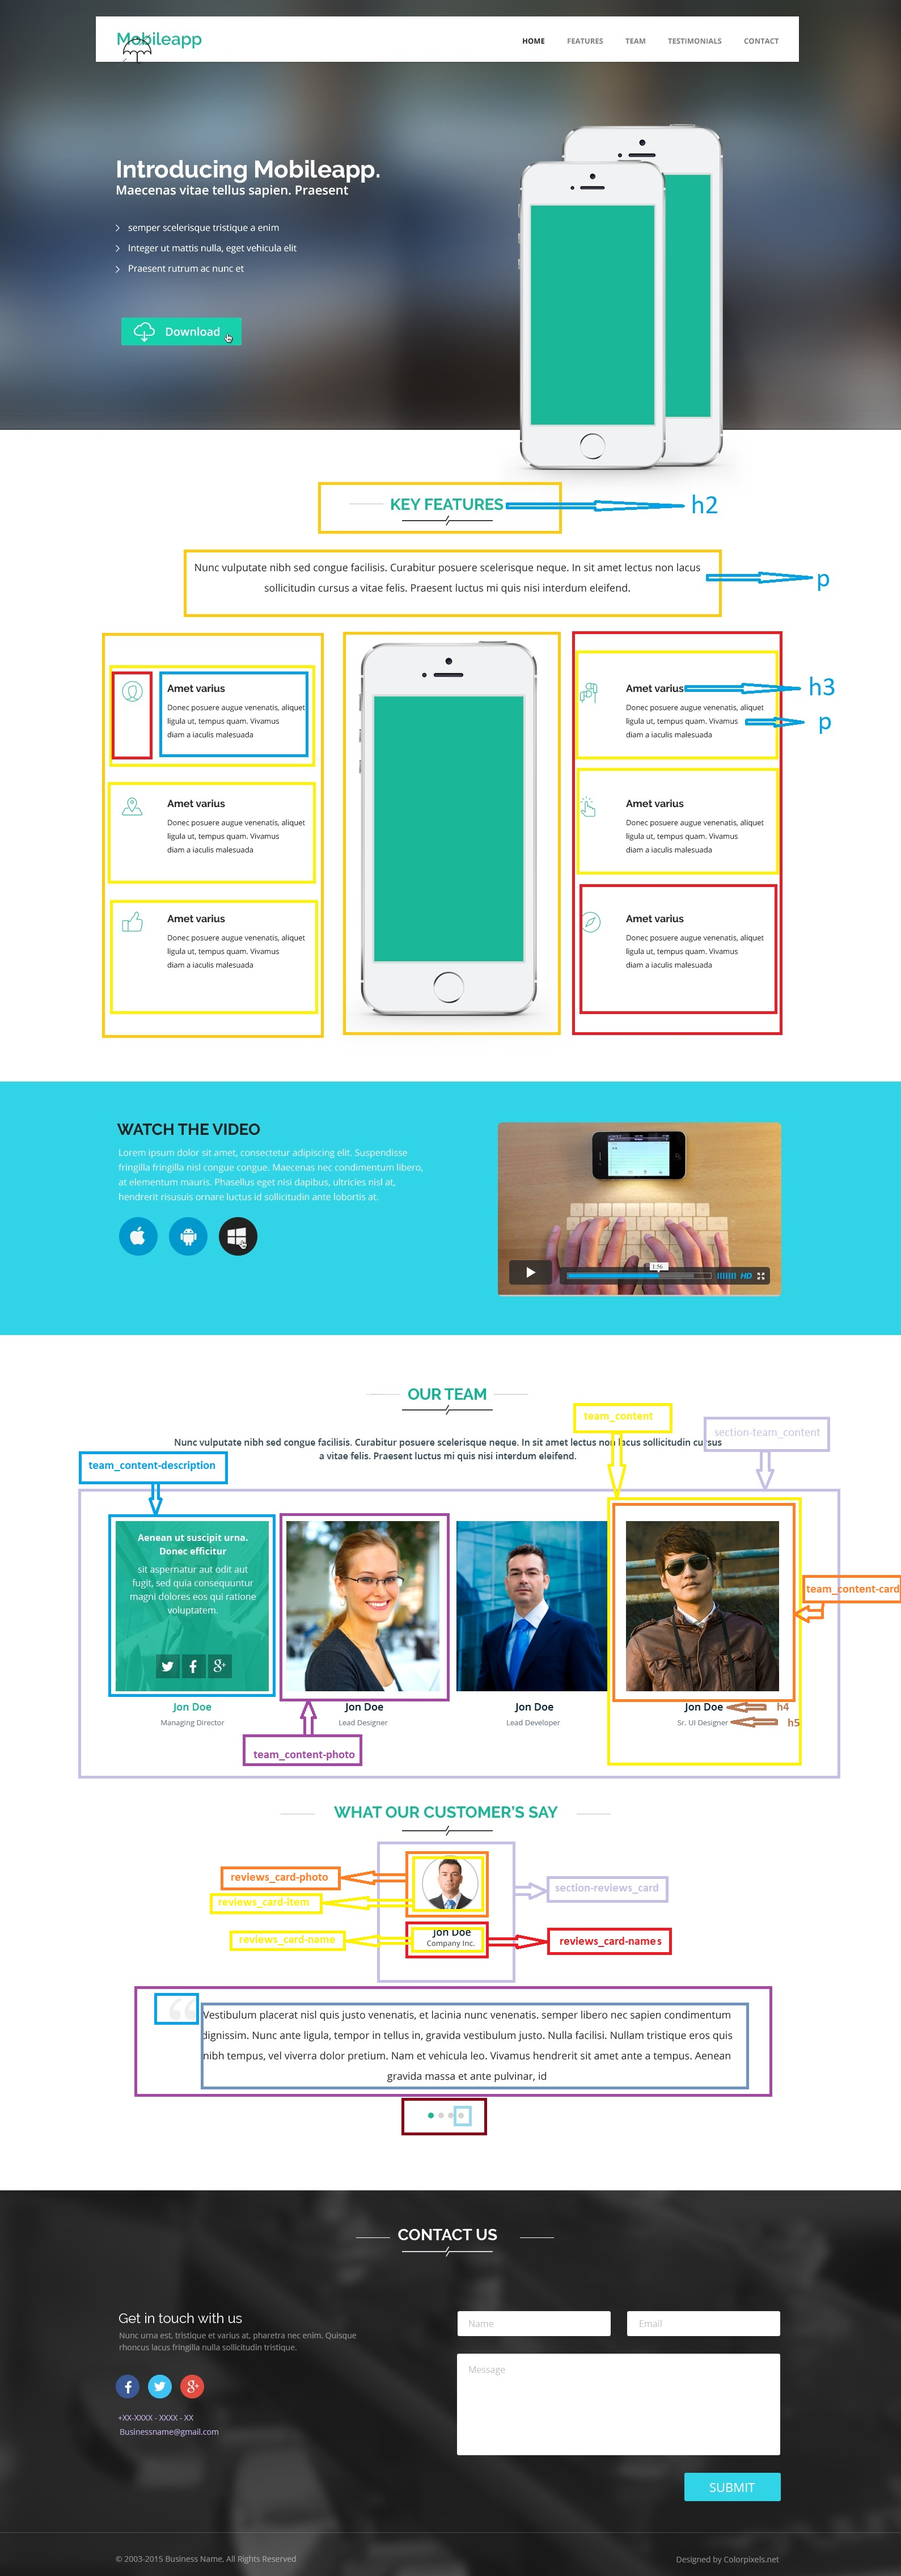
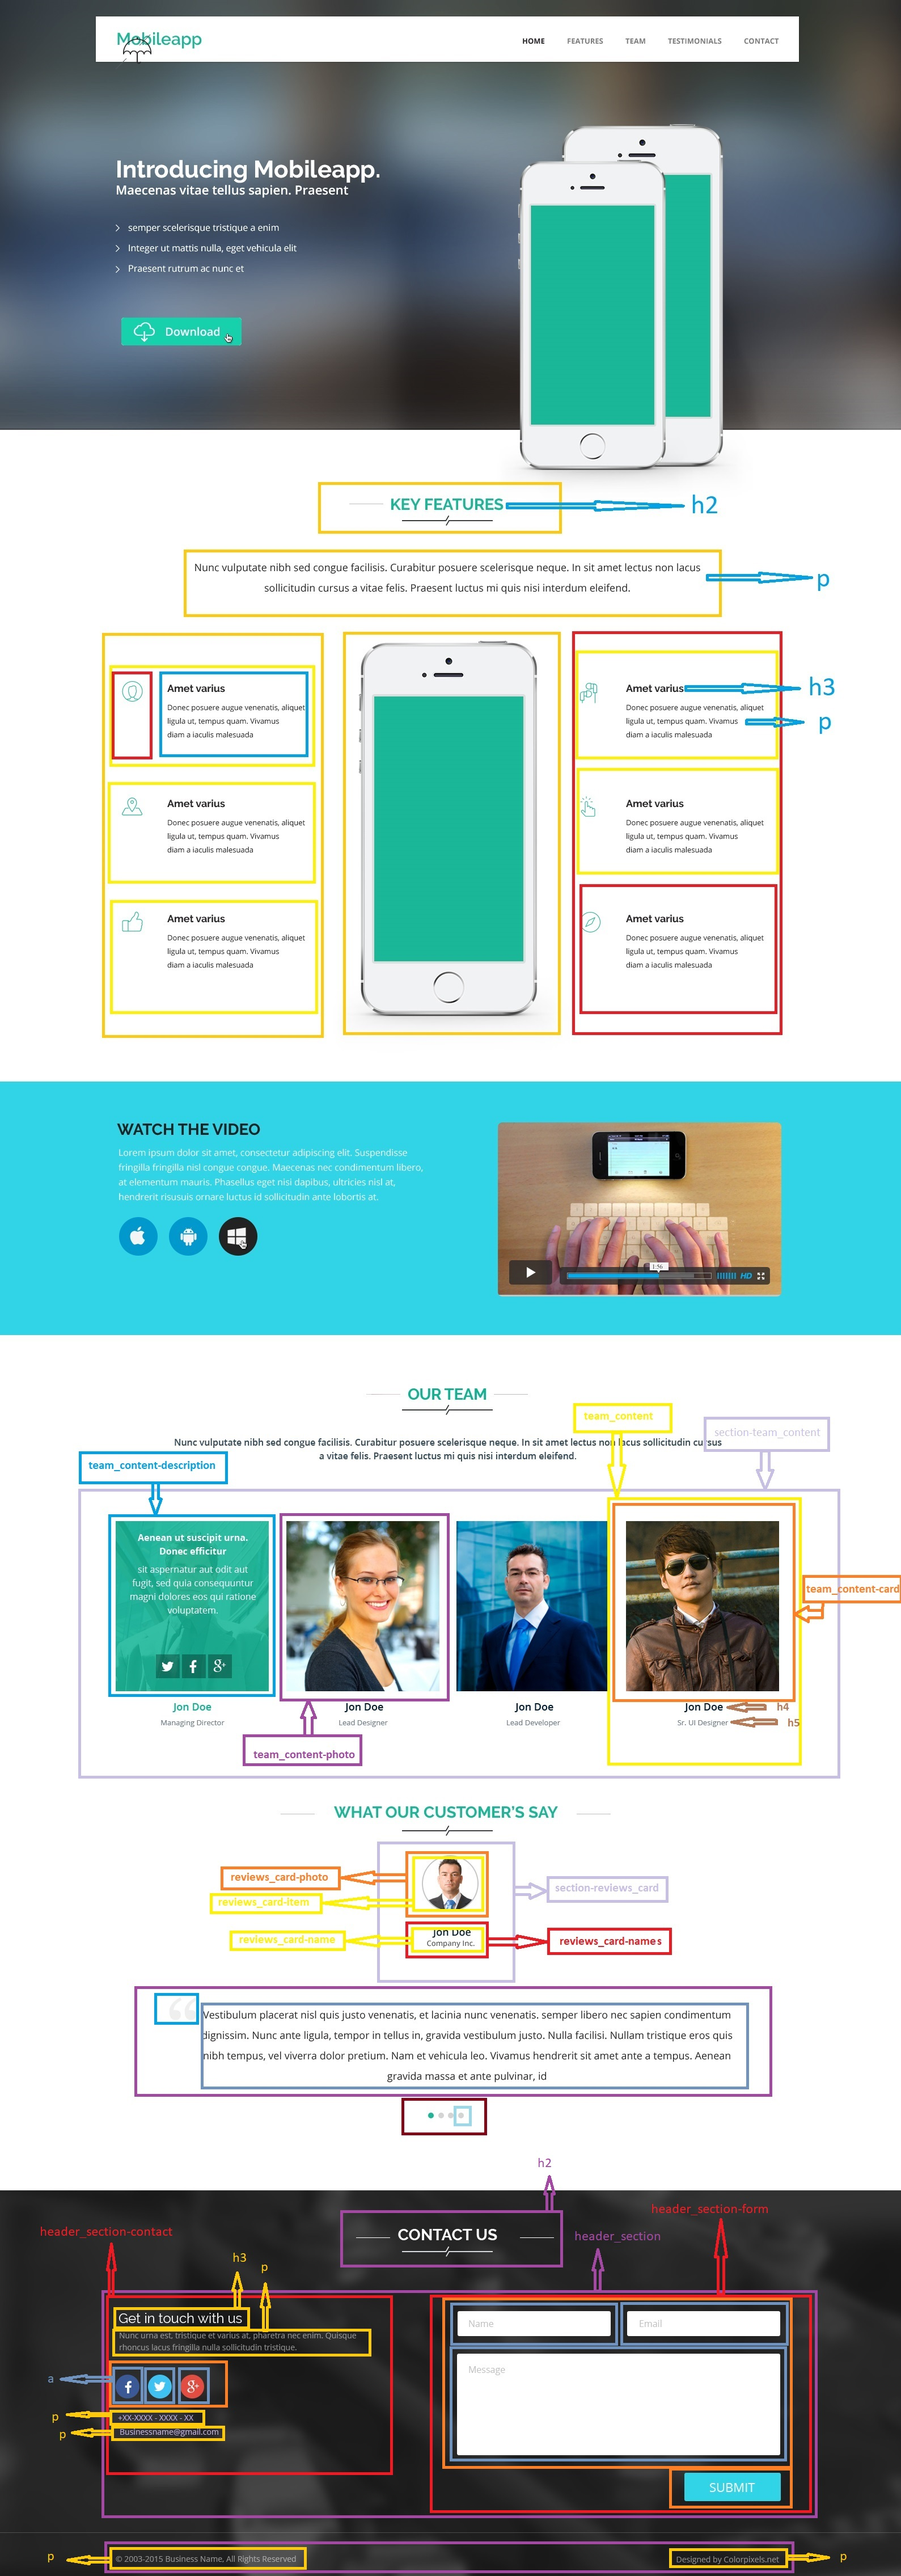
WHAT OUR CUSTOMER’S SAY end

Changed region(s): [[0.0617, 0.8382, 0.9251, 1.0]]

diff --git a/index.html b/index.html
@@ -350,8 +350,8 @@
                     </div>
                 </div>
                 <div class="section-reviews_text">
-                    <p>
-                        <span>“</span>
+                    <p class="reviews_text-before">“</p>
+                    <p class="reviews_text-after">
                         Vestibulum placerat nisl quis justo venenatis, et lacinia nunc venenatis. semper libero nec sapien condimentum dignissim. Nunc ante ligula, tempor in tellus in, gravida vestibulum justo. Nulla facilisi. Nullam tristique eros quis nibh tempus, vel viverra dolor pretium. Nam et vehicula leo. Vivamus hendrerit sit amet ante a tempus. Aenean gravida massa et ante pulvinar, id
                     </p>
                 </div>

diff --git a/css/style.css b/css/style.css
@@ -425,13 +425,24 @@ video {
     max-width: 1000px;
     margin: 0 auto;
     text-align: center;
+    color: #282528;
+    font-size: 18px;
+    font-weight: 400;
+    line-height: 36px;
+    display: flex;
+    justify-content: center;
+    align-items: center;
 }
-.section-reviews_text span {
+.reviews_text-before {
     font-size: 150px;
     color: #efefef;
     font-family: 'Georgia';
     font-weight: 400;
 }
+.reviews_text-after {
+    margin-top: 90px;
+}
+
 
 /* ----------------- Footer --------------- */
 
